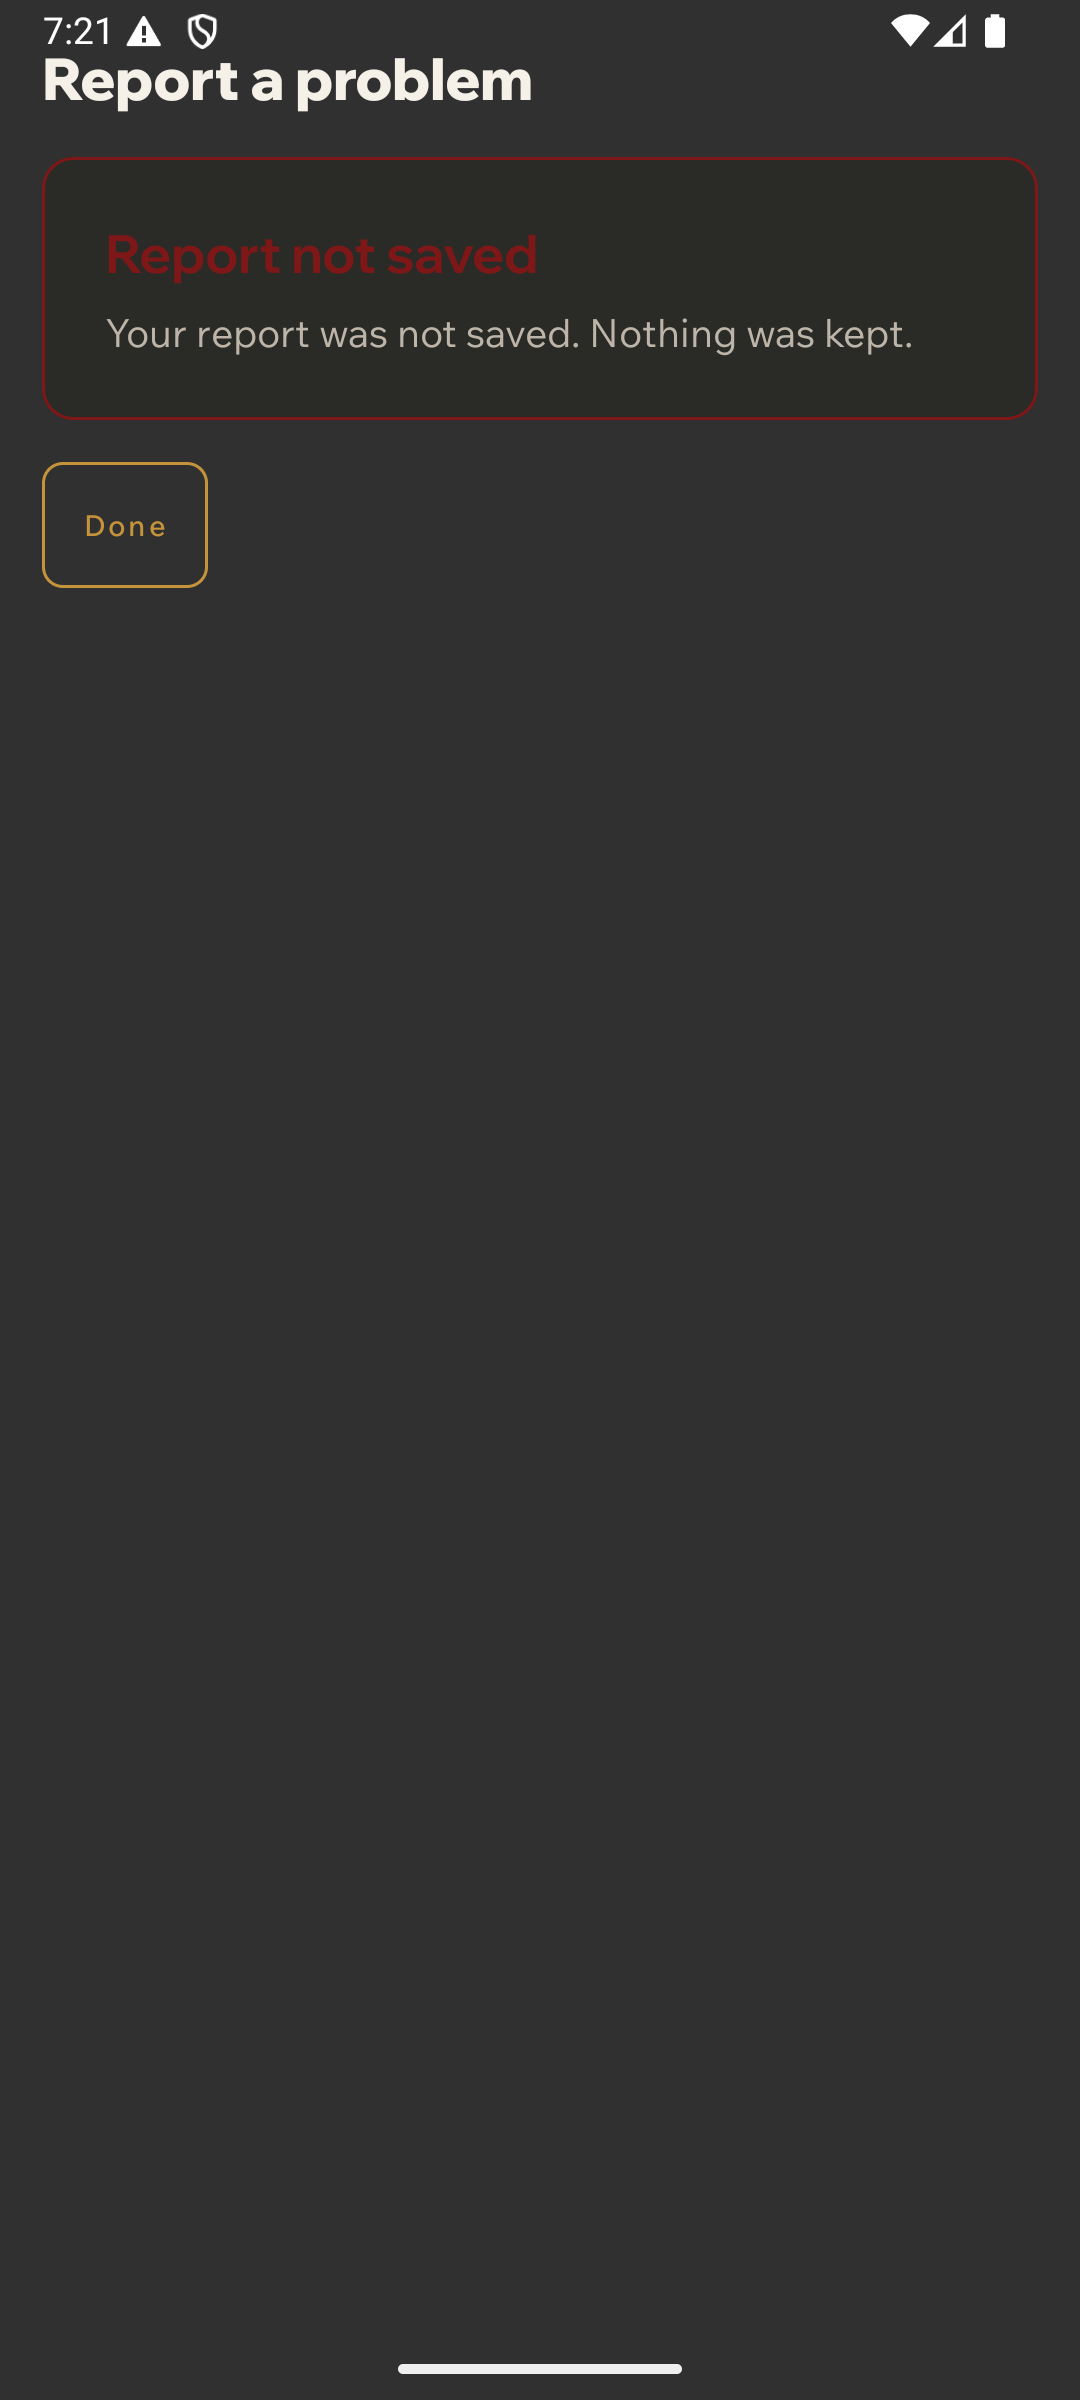
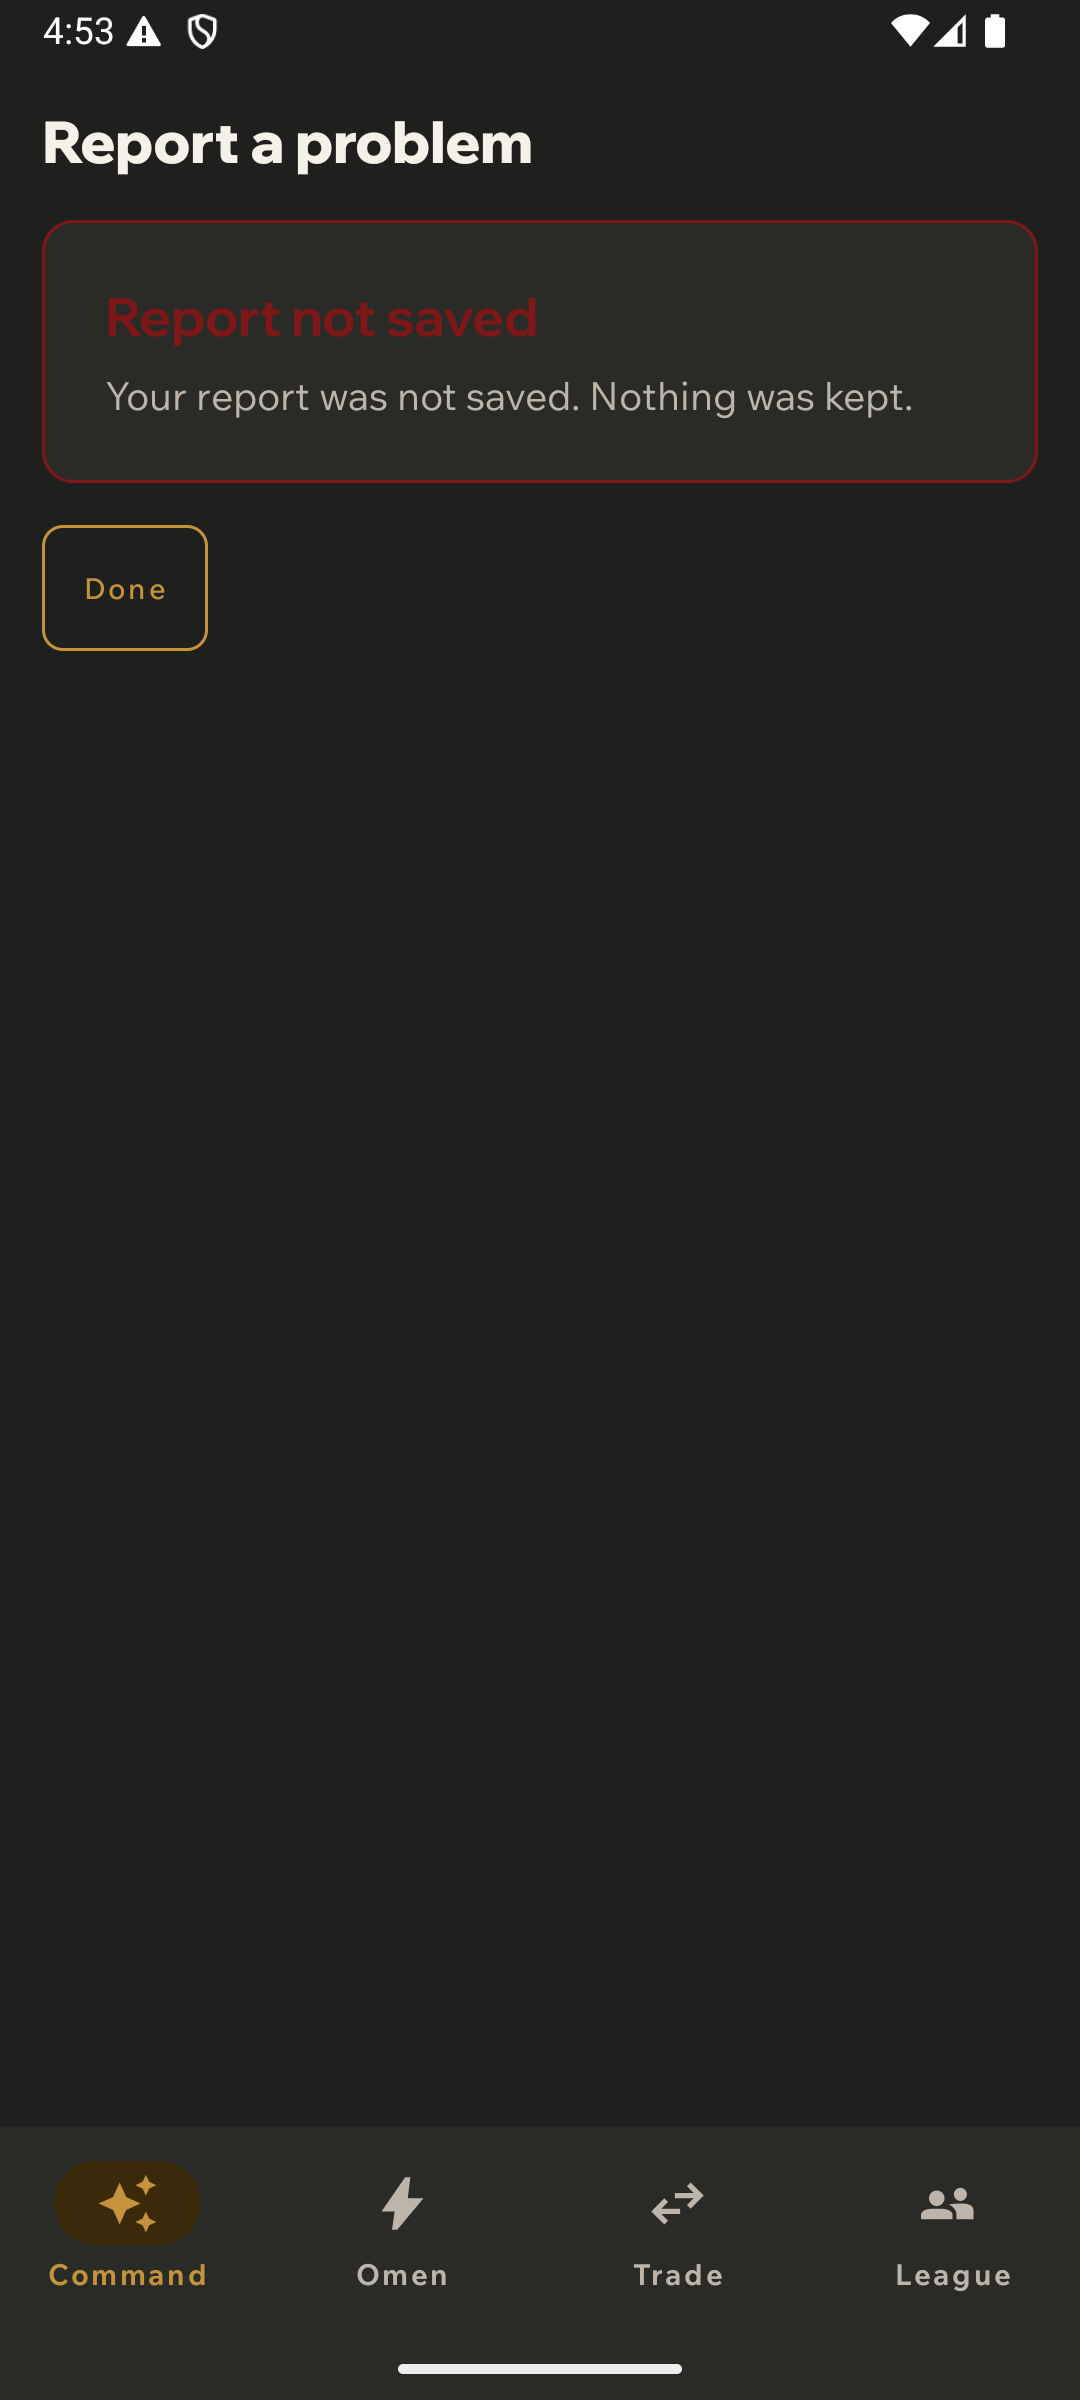
fix(android): match chrome geometry to iOS evidence

diff --git a/mobile/android/app/src/main/kotlin/com/slopssaloon/omen/app/feature/chrome/OmenChrome.kt b/mobile/android/app/src/main/kotlin/com/slopssaloon/omen/app/feature/chrome/OmenChrome.kt
@@ -113,7 +113,12 @@ fun OmenAccountScreen(
             )
         }
         if (onAddLeague != null) {
-            OmenButton("+ Add a league", onAddLeague, Modifier.fillMaxWidth().padding(horizontal = OmenTheme.spacing.step16), OmenButtonVariant.Link)
+            OmenButton(
+                "+ Add a league",
+                onAddLeague,
+                Modifier.padding(horizontal = OmenTheme.spacing.step16),
+                OmenButtonVariant.Link,
+            )
         }
         SectionLabel("Support")
         ChromeListRow("Report a problem", "Sends device and version. Never your league data.", onReportProblem)
@@ -121,8 +126,10 @@ fun OmenAccountScreen(
         ChromeListRow("Privacy & data", "Export or delete everything", onPrivacy)
         if (onSignOut != null) OmenButton(
             "Sign out", onSignOut,
-            Modifier.fillMaxWidth().padding(OmenTheme.spacing.step16),
+            Modifier.padding(horizontal = OmenTheme.spacing.step16)
+                .padding(top = OmenTheme.spacing.step20, bottom = OmenTheme.spacing.step16),
             OmenButtonVariant.Secondary,
+            size = OmenButtonSize.Lg,
         )
     }
 }
@@ -131,6 +138,7 @@ fun OmenAccountScreen(
 fun OmenPrivacyDataScreen(
     onExport: (() -> Unit)? = null,
     onDelete: (() -> Unit)? = null,
+    onClose: (() -> Unit)? = null,
     modifier: Modifier = Modifier,
 ) {
     Column(modifier.fillMaxSize().verticalScroll(rememberScrollState())) {
@@ -167,6 +175,7 @@ fun OmenPrivacyDataScreen(
             if (onDelete != null) OmenButton(
                 "Delete my Omen data", onDelete, Modifier.fillMaxWidth(), OmenButtonVariant.Danger, size = OmenButtonSize.Lg,
             )
+            if (onClose != null) OmenButton("Close", onClose, variant = OmenButtonVariant.Link, size = OmenButtonSize.Sm)
         }
     }
 }
@@ -176,11 +185,11 @@ private fun ChromeListRow(title: String, subtitle: String, onClick: (() -> Unit)
     val action = if (onClick == null) Modifier else Modifier.clickable(onClick = onClick)
     Row(
         modifier = Modifier.fillMaxWidth().background(OmenTheme.color.surface1).then(action)
-            .heightIn(min = 56.dp).padding(horizontal = OmenTheme.spacing.step16, vertical = OmenTheme.spacing.step10),
+            .heightIn(min = 56.dp).padding(horizontal = OmenTheme.spacing.step16, vertical = OmenTheme.spacing.step12),
         verticalAlignment = Alignment.CenterVertically,
         horizontalArrangement = Arrangement.spacedBy(OmenTheme.spacing.step12),
     ) {
-        Column(Modifier.weight(1f), verticalArrangement = Arrangement.spacedBy(OmenTheme.spacing.step2)) {
+        Column(Modifier.weight(1f), verticalArrangement = Arrangement.spacedBy(OmenTheme.spacing.step4)) {
             Text(title, style = OmenTheme.typography.body.toTextStyle(), color = OmenTheme.color.textPrimary)
             Text(subtitle, style = OmenTheme.typography.bodySmall.toTextStyle(), color = OmenTheme.color.textSecondary)
         }
@@ -192,7 +201,7 @@ private fun ChromeListRow(title: String, subtitle: String, onClick: (() -> Unit)
 @Composable
 private fun ConnectionRow(connection: OmenAccountConnection, onDisconnect: ((OmenAccountConnection) -> Unit)?) {
     Row(
-        Modifier.fillMaxWidth().padding(horizontal = OmenTheme.spacing.step16, vertical = OmenTheme.spacing.step10),
+        Modifier.fillMaxWidth().padding(horizontal = OmenTheme.spacing.step16, vertical = OmenTheme.spacing.step8),
         verticalAlignment = Alignment.CenterVertically,
         horizontalArrangement = Arrangement.spacedBy(OmenTheme.spacing.step12),
     ) {
@@ -213,7 +222,7 @@ private fun ConnectionRow(connection: OmenAccountConnection, onDisconnect: ((Ome
 
 @Composable
 private fun SectionLabel(title: String, trailing: String? = null) {
-    Row(Modifier.fillMaxWidth().padding(start = OmenTheme.spacing.step16, end = OmenTheme.spacing.step16, top = OmenTheme.spacing.step20, bottom = OmenTheme.spacing.step8)) {
+    Row(Modifier.fillMaxWidth().padding(start = OmenTheme.spacing.step16, end = OmenTheme.spacing.step16, top = OmenTheme.spacing.step16, bottom = OmenTheme.spacing.step6)) {
         Text(title.uppercase(), Modifier.weight(1f), style = OmenTheme.typography.micro.toTextStyle(), color = OmenTheme.color.textTertiary)
         if (trailing != null) Text(trailing, style = OmenTheme.typography.micro.toTextStyle(), color = OmenTheme.color.textTertiary)
     }
@@ -341,21 +350,56 @@ fun OmenReportComposer(
         }
         return
     }
-    Column(modifier.fillMaxSize().verticalScroll(rememberScrollState()).padding(OmenTheme.spacing.step16), verticalArrangement = Arrangement.spacedBy(OmenTheme.spacing.step12)) {
+    Column(modifier.fillMaxSize().verticalScroll(rememberScrollState()).padding(OmenTheme.spacing.step16), verticalArrangement = Arrangement.spacedBy(OmenTheme.spacing.step20)) {
         Text("Report a problem", style = OmenTheme.typography.screenTitle.toTextStyle(), color = OmenTheme.color.textPrimary)
-        Text("WHAT THIS SENDS", style = OmenTheme.typography.micro.toTextStyle(), color = OmenTheme.color.textTertiary)
-        HonestText("Screen: ${screen.display}\nApp and build\nAndroid version and device\nProvider connection state\nRecent scrubbed error codes\nYour note")
-        Text("Never league data, rosters, screenshots or credentials.", style = OmenTheme.typography.bodySmall.toTextStyle(), color = OmenTheme.color.textSecondary)
-        OutlinedTextField(value = note, onValueChange = { note = it.take(4000) }, label = { Text("What went wrong?") }, modifier = Modifier.fillMaxWidth())
+        Text(
+            "Omen sends the facts below and nothing else. It never sends your league, your roster, a screenshot, or anything you signed in with.",
+            style = OmenTheme.typography.body.toTextStyle(), color = OmenTheme.color.textSecondary,
+        )
+        Column(verticalArrangement = Arrangement.spacedBy(OmenTheme.spacing.step8)) {
+            Text("WHAT HAPPENED?", style = OmenTheme.typography.micro.toTextStyle(), color = OmenTheme.color.textTertiary)
+            OutlinedTextField(
+                value = note,
+                onValueChange = { note = it.take(4000) },
+                placeholder = { Text("What you did, and what Omen did.") },
+                modifier = Modifier.fillMaxWidth(),
+            )
+        }
+        OmenCard(modifier = Modifier.fillMaxWidth(), variant = OmenCardVariant.Preview) {
+            Column(verticalArrangement = Arrangement.spacedBy(OmenTheme.spacing.step8)) {
+                Text("WHAT THIS SENDS", style = OmenTheme.typography.micro.toTextStyle(), color = OmenTheme.color.textTertiary)
+                ReportFact("Screen", screen.display)
+                ReportFact("App", "${BuildConfig.VERSION_NAME} (${BuildConfig.VERSION_CODE})")
+                ReportFact("Device", "${Build.MODEL ?: "Android device"}, Android ${Build.VERSION.RELEASE ?: "unknown"}")
+                ReportFact("Connection", "None")
+                ReportFact("Recent error codes", "None")
+                ReportFact("Your note", if (note.isBlank()) "Empty" else note)
+            }
+        }
+        Text(
+            "Reports are summarized by a model for a daily founder digest. Do not include league data or credentials.",
+            style = OmenTheme.typography.bodySmall.toTextStyle(), color = OmenTheme.color.textTertiary,
+        )
+        Text(
+            "Screenshots can’t be attached. Describe what you saw instead.",
+            style = OmenTheme.typography.bodySmall.toTextStyle(), color = OmenTheme.color.textTertiary,
+        )
         OmenButton(
             if (disclosureAccepted) "Disclosure accepted" else "I understand what this sends",
             onClick = { disclosureAccepted = !disclosureAccepted },
-            modifier = Modifier.fillMaxWidth(),
-            variant = OmenButtonVariant.Secondary,
+            variant = OmenButtonVariant.Link,
         )
         OmenButton("Send report", onClick = {
             val report = OmenBetaReport.device(screen, note).copy(disclosureAccepted = disclosureAccepted)
             if (report.isSendable) scope.launch { sending = true; outcome = send(report); sending = false }
-        }, modifier = Modifier.fillMaxWidth(), enabled = note.isNotBlank() && disclosureAccepted, loading = sending)
+        }, enabled = note.isNotBlank() && disclosureAccepted, loading = sending, size = OmenButtonSize.Lg)
+    }
+}
+
+@Composable
+private fun ReportFact(label: String, value: String) {
+    Row(horizontalArrangement = Arrangement.spacedBy(OmenTheme.spacing.step8)) {
+        Text(label, Modifier.weight(0.42f), style = OmenTheme.typography.bodySmall.toTextStyle(), color = OmenTheme.color.textTertiary)
+        Text(value, Modifier.weight(0.58f), style = OmenTheme.typography.bodySmall.toTextStyle(), color = OmenTheme.color.textSecondary)
     }
 }

diff --git a/mobile/android/app/src/main/kotlin/com/slopssaloon/omen/app/auth/OmenDeleteAccountScreen.kt b/mobile/android/app/src/main/kotlin/com/slopssaloon/omen/app/auth/OmenDeleteAccountScreen.kt
@@ -2,19 +2,14 @@ package com.slopssaloon.omen.app.auth
 
 import androidx.compose.foundation.layout.Arrangement
 import androidx.compose.foundation.layout.Column
-import androidx.compose.foundation.layout.PaddingValues
 import androidx.compose.foundation.layout.fillMaxWidth
 import androidx.compose.foundation.layout.padding
 import androidx.compose.material3.Text
 import androidx.compose.runtime.Composable
 import androidx.compose.ui.Modifier
-import androidx.compose.ui.unit.dp
 import com.slopssaloon.omen.core.auth.AccountDeletion
 import com.slopssaloon.omen.core.designsystem.component.OmenButton
 import com.slopssaloon.omen.core.designsystem.component.OmenButtonVariant
-import com.slopssaloon.omen.core.designsystem.component.OmenCard
-import com.slopssaloon.omen.core.designsystem.component.OmenCardTone
-import com.slopssaloon.omen.core.designsystem.component.OmenCardVariant
 import com.slopssaloon.omen.core.designsystem.component.OmenFormField
 import com.slopssaloon.omen.core.designsystem.component.OmenTextField
 import com.slopssaloon.omen.core.designsystem.theme.OmenTheme
@@ -32,27 +27,23 @@ fun OmenDeleteAccountScreen(
     onConfirm: () -> Unit,
     onCancel: () -> Unit,
 ) {
-    OmenCard(
-        modifier = Modifier.padding(24.dp).fillMaxWidth(),
-        variant = OmenCardVariant.Outlined,
-        tone = OmenCardTone.Risk,
-        contentPadding = PaddingValues(OmenTheme.spacing.cardInterior),
+    Column(
+        modifier = Modifier.fillMaxWidth().padding(OmenTheme.spacing.step16),
+        verticalArrangement = Arrangement.spacedBy(OmenTheme.spacing.step20),
     ) {
-        Column(verticalArrangement = Arrangement.spacedBy(OmenTheme.spacing.step16)) {
             Text(
-                text = "Delete your Omen account",
-                style = OmenTheme.typography.h1.toTextStyle(),
+                text = "Delete your Omen data",
+                style = OmenTheme.typography.screenTitle.toTextStyle(),
                 color = OmenTheme.color.textPrimary,
             )
             Text(
-                text = "This permanently deletes your account and data. It cannot be undone.",
+                text = "This permanently deletes your Omen account and data. This can't be undone.",
                 style = OmenTheme.typography.body.toTextStyle(),
                 color = OmenTheme.color.textSecondary,
             )
 
             OmenFormField(
-                label = "Confirmation phrase",
-                hint = "Type ${AccountDeletion.REQUIRED_PHRASE} to confirm.",
+                label = "TYPE \"${AccountDeletion.REQUIRED_PHRASE.uppercase()}\" TO CONFIRM",
                 errorMessage = message,
             ) {
                 OmenTextField(
@@ -70,16 +61,13 @@ fun OmenDeleteAccountScreen(
                 variant = OmenButtonVariant.Danger,
                 enabled = !deleting && AccountDeletion.isConfirmed(phrase),
                 loading = deleting,
-                modifier = Modifier.fillMaxWidth(),
             )
 
             OmenButton(
                 text = "Cancel",
                 onClick = onCancel,
-                variant = OmenButtonVariant.Secondary,
+                variant = OmenButtonVariant.Link,
                 enabled = !deleting,
-                modifier = Modifier.fillMaxWidth(),
             )
-        }
     }
 }

diff --git a/mobile/android/app/src/main/kotlin/com/slopssaloon/omen/app/screenshot/ScreenshotScenarios.kt b/mobile/android/app/src/main/kotlin/com/slopssaloon/omen/app/screenshot/ScreenshotScenarios.kt
@@ -800,11 +800,11 @@ object ScreenshotScenarios {
         ),
         "chrome.account.privacy" to ScreenshotScenario(
             label = "Chrome — privacy and data",
-            render = { OmenPrivacyDataScreen(onExport = {}, onDelete = {}) },
+            render = { ChromeInShell { OmenPrivacyDataScreen(onDelete = {}, onClose = {}) } },
         ),
         "chrome.account.delete-confirmation" to ScreenshotScenario(
             label = "Chrome — delete confirmation",
-            render = { OmenDeleteAccountScreen("", null, false, {}, {}, {}) },
+            render = { ChromeInShell { OmenDeleteAccountScreen("", null, false, {}, {}, {}) } },
         ),
         "chrome.report-pill.resting" to ScreenshotScenario(
             label = "Chrome — report pill",
@@ -812,15 +812,15 @@ object ScreenshotScenarios {
         ),
         "chrome.report-pill.composer" to ScreenshotScenario(
             label = "Chrome — report composer",
-            render = { OmenReportComposer(OmenBetaReportScreen.CommandCenter, { OmenBetaReportOutcome.NotSaved }) },
+            render = { ChromeInShell { OmenReportComposer(OmenBetaReportScreen.CommandCenter, { OmenBetaReportOutcome.NotSaved }) } },
         ),
         "chrome.report-pill.sent" to ScreenshotScenario(
             label = "Chrome — report received",
-            render = { OmenReportComposer(OmenBetaReportScreen.CommandCenter, { OmenBetaReportOutcome.NotSaved }, OmenBetaReportOutcome.Received("BR-1042")) },
+            render = { ChromeInShell { OmenReportComposer(OmenBetaReportScreen.CommandCenter, { OmenBetaReportOutcome.NotSaved }, OmenBetaReportOutcome.Received("BR-1042")) } },
         ),
         "chrome.report-pill.not-saved" to ScreenshotScenario(
             label = "Chrome — report not saved",
-            render = { OmenReportComposer(OmenBetaReportScreen.CommandCenter, { OmenBetaReportOutcome.NotSaved }, OmenBetaReportOutcome.NotSaved) },
+            render = { ChromeInShell { OmenReportComposer(OmenBetaReportScreen.CommandCenter, { OmenBetaReportOutcome.NotSaved }, OmenBetaReportOutcome.NotSaved) } },
         ),
         "help-support.available" to ScreenshotScenario(
             label = "Help + Support — available",
@@ -919,10 +919,22 @@ private val chromeConnections = listOf(
 
 @Composable
 private fun ChromeAccount(connections: OmenAccountConnections) {
-    OmenAccountScreen(
-        state = OmenAccountState("justin@slopssaloon.com", "Apple ID", "JD", connections),
-        onAddLeague = {}, onDisconnect = {}, onReportProblem = {}, onHelp = {}, onPrivacy = {}, onSignOut = {},
-    )
+    ChromeInShell {
+        OmenAccountScreen(
+            state = OmenAccountState("justin@slopssaloon.com", "Apple ID", "JD", connections),
+            onAddLeague = {}, onDisconnect = {}, onReportProblem = {}, onHelp = {}, onPrivacy = {}, onSignOut = {},
+        )
+    }
+}
+
+@Composable
+private fun ChromeInShell(content: @Composable () -> Unit) {
+    Scaffold(
+        containerColor = OmenTheme.color.bg,
+        bottomBar = { FauxBottomNav(FauxNavTab.Command) {} },
+    ) { innerPadding ->
+        Box(Modifier.fillMaxSize().padding(innerPadding)) { content() }
+    }
 }
 
 @Composable

diff --git a/mobile/android/app/src/main/kotlin/com/slopssaloon/omen/app/OmenAndroidApp.kt b/mobile/android/app/src/main/kotlin/com/slopssaloon/omen/app/OmenAndroidApp.kt
@@ -614,6 +614,7 @@ fun OmenAndroidApp() {
                             onDelete = if (s.userId != SessionManager.DEMO_USER_ID) {
                                 { showPrivacyData = false; showAccountSheet = false; showDelete = true }
                             } else null,
+                            onClose = { showPrivacyData = false },
                         )
                     }
                     OmenModalSheet(
